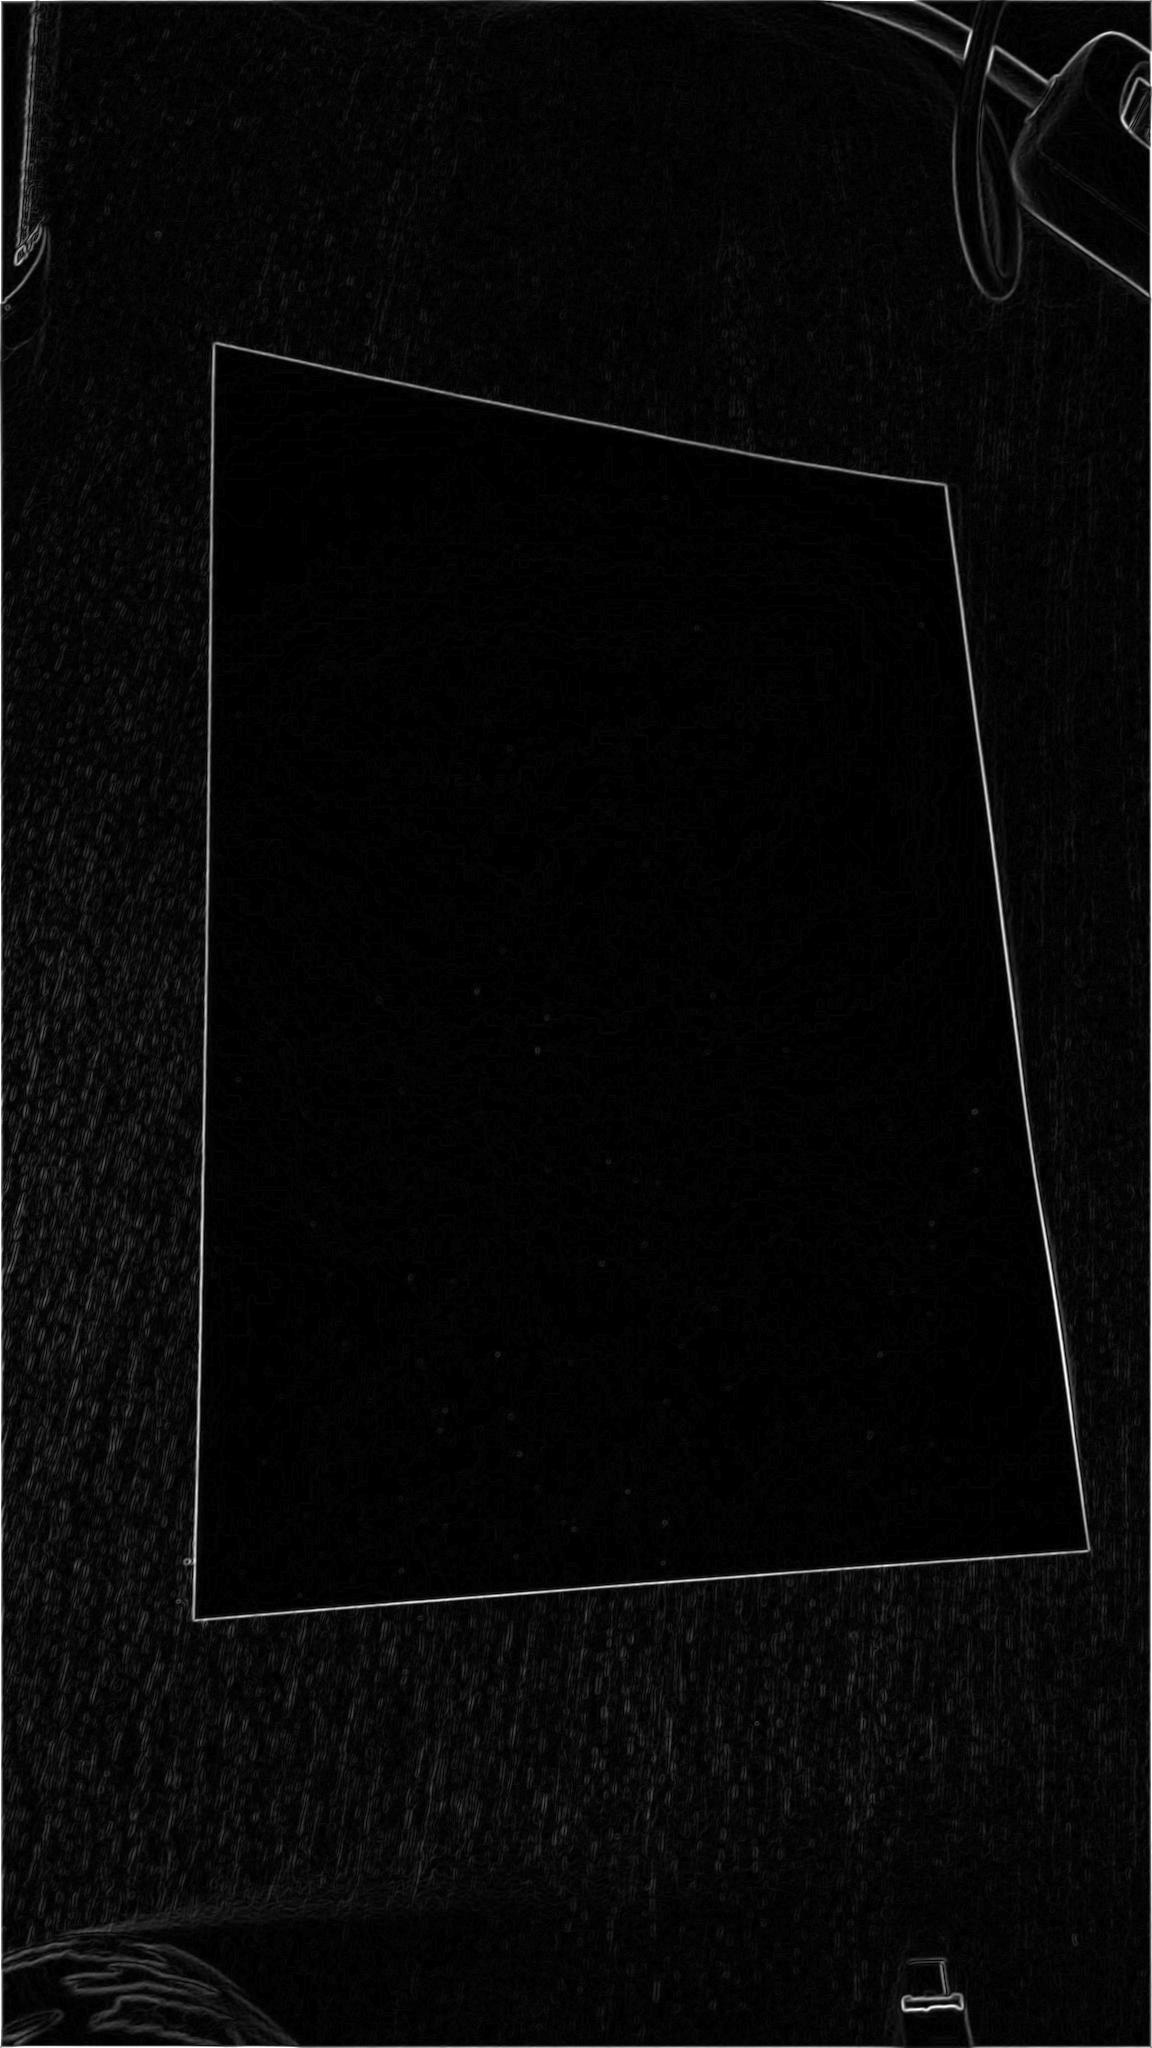
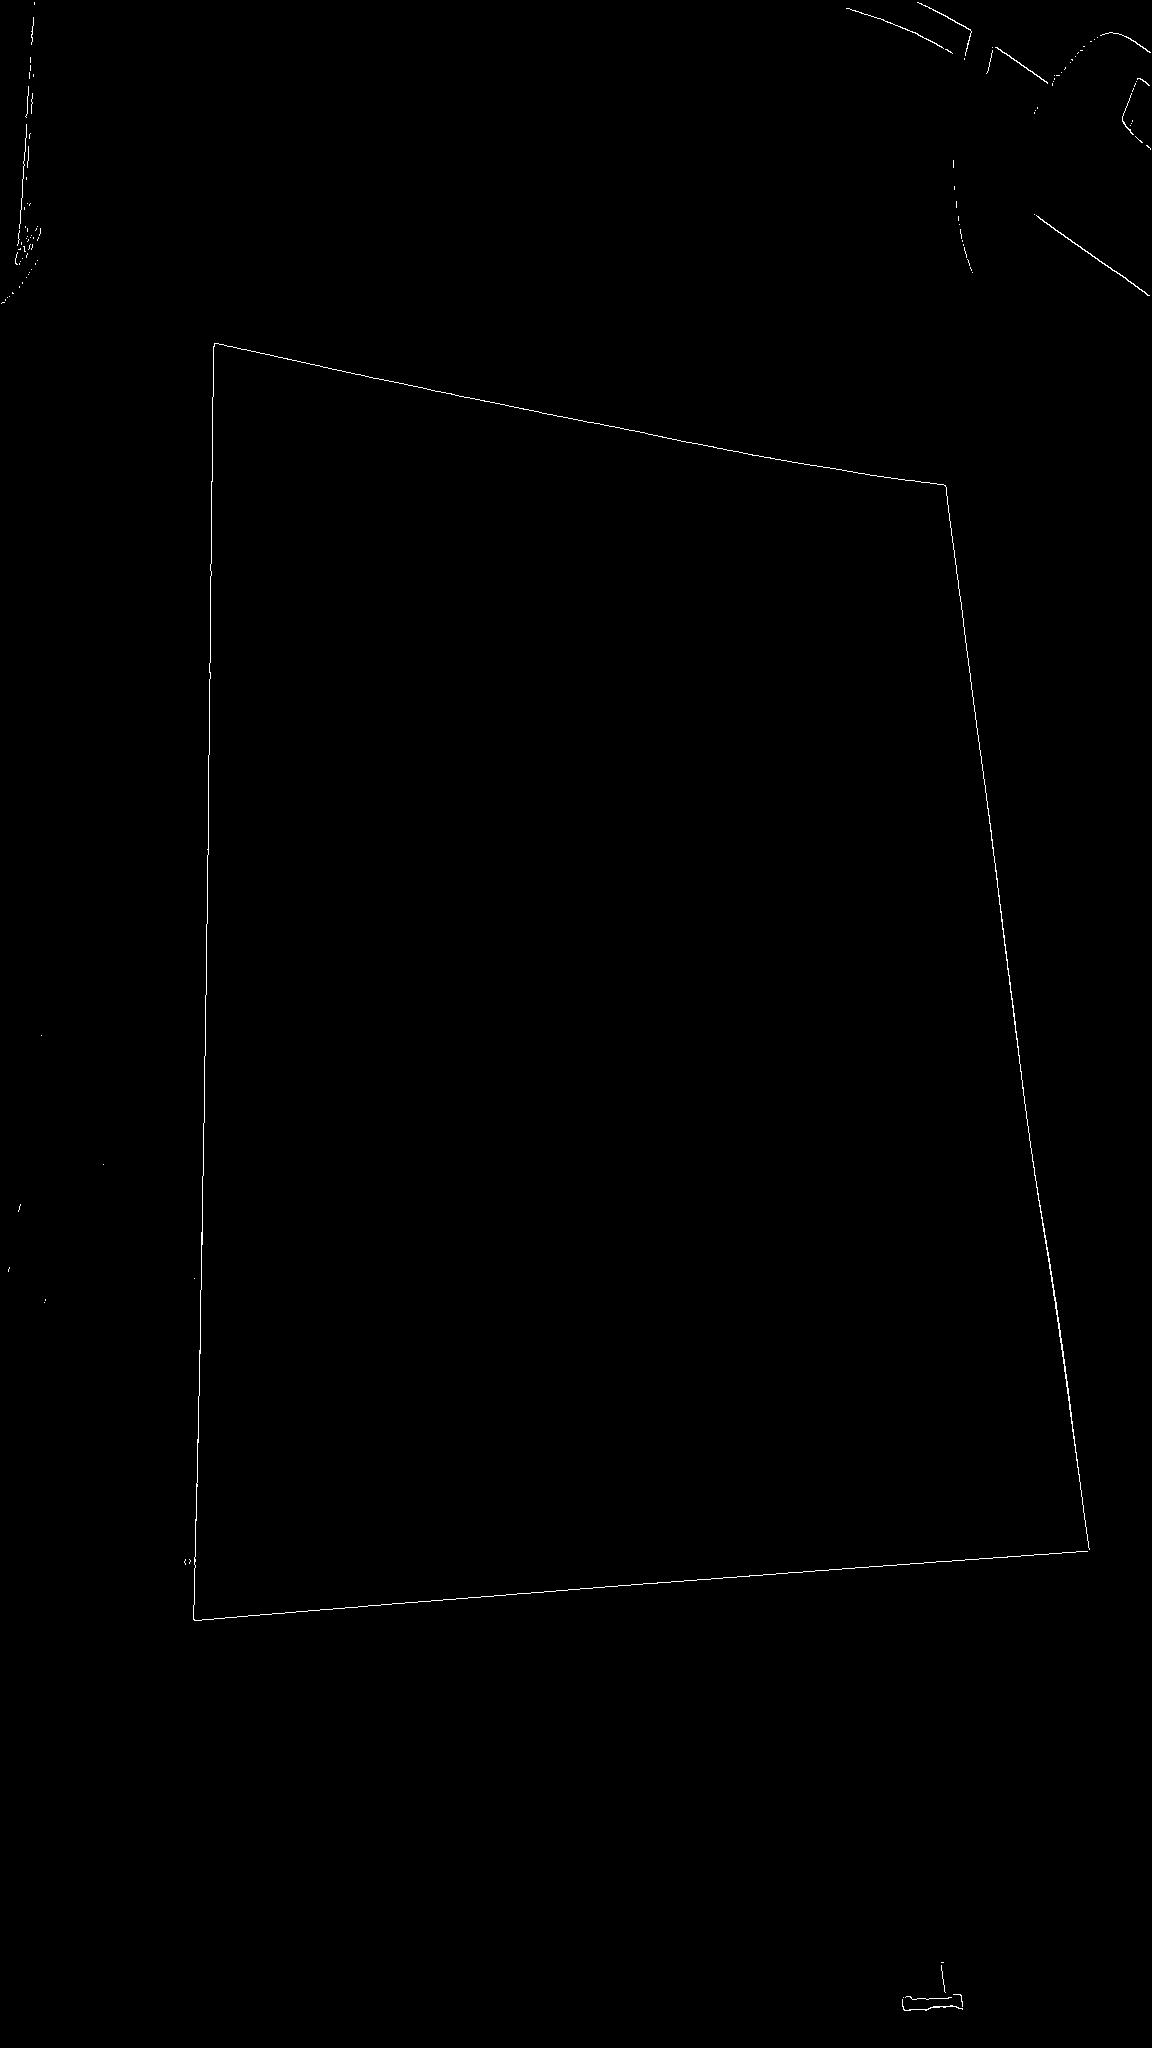
2023041904 Non-max suppression, Double threshhold, Hysteresis

diff --git a/src/main/java/pl/ipt/Painter/Painter.java b/src/main/java/pl/ipt/Painter/Painter.java
@@ -9,6 +9,34 @@ public class Painter {
     private Integer width;
     private Integer height;
 
+    private Double[][] sobelDirection;
+
+
+    /**
+     * Methods
+     **/
+
+
+    private BufferedImage getExtendedImage(Integer ext){
+        BufferedImage e = new BufferedImage(width+ext, height+ext, BufferedImage.TYPE_INT_RGB);
+        e.getGraphics().drawImage(image,ext/2, ext/2,null);
+        return e;
+    }
+
+    private Integer getMaxRGB(){
+        Integer max = 0;
+        for (int i=0; i<height;i++){
+            for (int j=0;j<width;j++){
+                int red = new Color(image.getRGB(j,i)).getRed();
+                if(red > max){
+                    max = red;
+                }
+                if (max >=255)return 255;
+            }
+        }
+        return max;
+    }
+
     public void toGrayScale() {
         for (int i = 0; i < height; i++) {
             for (int j = 0; j < width; j++) {
@@ -23,21 +51,18 @@ public class Painter {
                 image.setRGB(j, i, grey);
             }
         }
+
     }
 
     public void applyGaussian() {
-        applyGaussian(5, 1.3);
+        applyGaussian(5, 1.0);
     }
 
     public void applyGaussian(Integer kernelSize, Double sd) {
-        BufferedImage extended = new BufferedImage(width + kernelSize - 1, height + kernelSize - 1, BufferedImage.TYPE_INT_RGB);
+        BufferedImage extended = getExtendedImage(kernelSize-1);
+        BufferedImage imageCopy = extended;
 
         Integer k = kernelSize >> 1;
-
-        Graphics graphics = extended.getGraphics();
-        graphics.drawImage(image, k, k, null);
-
-        BufferedImage copy = extended;
 
         Double[][] kernel = gaussianKernel(kernelSize, sd);
 
@@ -48,7 +73,7 @@ public class Painter {
                 for (int h = 0; h < kernelSize; h++) {
                     for (int g = 0; g < kernelSize; g++) {
 
-                        Color c = new Color(copy.getRGB(j - k + g, i - k + h));
+                        Color c = new Color(imageCopy.getRGB(j - k + g, i - k + h));
                         grey += kernel[h][g] * c.getRed();
 
 
@@ -90,26 +115,22 @@ public class Painter {
         Double[][] dir = new Double[width][height];
 
         for (int i = 0; i < height; i++) {
-            for (int j=0; j < width; j++){
-                G[j][i] = Math.sqrt((Gx[j][i]*Gx[j][i]+Gy[j][i]*Gy[j][i]));
+            for (int j = 0; j < width; j++) {
+                G[j][i] = Math.sqrt((Gx[j][i] * Gx[j][i] + Gy[j][i] * Gy[j][i]));
                 Integer grey = Math.min(255, G[j][i].intValue());
-                image.setRGB(j,i,new Color(grey,grey,grey).getRGB());
-                dir[j][i] = Math.atan2(Math.abs(Gy[j][i]),Math.abs(Gx[j][i]));
+                image.setRGB(j, i, new Color(grey, grey, grey).getRGB());
+                dir[j][i] = Math.atan2(Math.abs(Gy[j][i]), Math.abs(Gx[j][i]));
             }
         }
-
-
+        setSobelDirection(dir);
     }
 
     private Double[][] directionalSobel(Integer[][] k) {
-        BufferedImage extended = new BufferedImage(width + 2, height + 2, BufferedImage.TYPE_INT_RGB);
-        Graphics graphics = extended.getGraphics();
-
-        graphics.drawImage(image, 1, 1, null);
+        BufferedImage extended = getExtendedImage(2);
 
         Double[][] gradient = new Double[width][height];
 
-        BufferedImage copy = extended;
+        BufferedImage imageCopy = extended;
 
         for (int i = 1; i < height + 1; i++) {
             for (int j = 1; j < width + 1; j++) {
@@ -118,7 +139,7 @@ public class Painter {
 
                 for (int h = 0; h < 3; h++) {
                     for (int g = 0; g < 3; g++) {
-                        Color c = new Color(copy.getRGB(j - 1 + g, i - 1 + h));
+                        Color c = new Color(imageCopy.getRGB(j - 1 + g, i - 1 + h));
                         grey += (k[g][h] * c.getRed());
                     }
                 }
@@ -128,6 +149,104 @@ public class Painter {
         return gradient;
     }
 
+
+    public void applyNonMaxSuppression() {
+        BufferedImage imageCopy = image;
+        BufferedImage result = new BufferedImage(width, height, BufferedImage.TYPE_INT_RGB);
+
+        for (int i = 0; i < height; i++) {
+            for (int j = 0; j < width; j++) {
+                Integer q = new Color(255, 255, 255).getRGB();
+                Integer r = new Color(255, 255, 255).getRGB();
+
+                Double angle = sobelDirection[j][i];
+
+                try {
+                    if ((0 <= angle && angle < 0.125 * Math.PI) || (0.875 * Math.PI <= angle && angle <= Math.PI)) {
+                        q = imageCopy.getRGB(j, i + 1);
+                        r = imageCopy.getRGB(j, i - 1);
+                    } else if (0.125 * Math.PI <= angle && angle < 0.375 * Math.PI) {
+                        q = imageCopy.getRGB(j + 1, i - 1);
+                        r = imageCopy.getRGB(j - 1, i + 1);
+                    } else if (0.375 * Math.PI <= angle && angle < 0.625 * Math.PI) {
+                        q = imageCopy.getRGB(j + 1, i);
+                        r = imageCopy.getRGB(j - 1, i);
+                    } else if (0.625 * Math.PI <= angle && angle < 0.875 * Math.PI) {
+                        q = imageCopy.getRGB(j - 1, i - 1);
+                        r = imageCopy.getRGB(j + 1, i + 1);
+                    }
+                } catch (Exception e) {
+                    q = 255;
+                    r = 255;
+                }
+
+
+                if (imageCopy.getRGB(j, i) >= q && imageCopy.getRGB(j, i) >= r) {
+                    result.setRGB(j, i, imageCopy.getRGB(j, i));
+                } else {
+                    result.setRGB(j, i, 0);
+                }
+            }
+        }
+        setImage(result);
+    }
+
+    public void applyDoubleThreshold(){
+        applyDoubleThreshold(0.9, 0.55);
+    }
+
+    public void applyDoubleThreshold(double lowThresholdRatio, double highThresholdRatio) {
+        Integer maxRGB = getMaxRGB();
+
+        Integer highThreshold = (int)(maxRGB * highThresholdRatio);
+        Integer lowThreshold = (int)(highThreshold * lowThresholdRatio);
+
+        Integer high = new Color(highThreshold,highThreshold,highThreshold).getRGB();
+        Integer low = new Color(lowThreshold,lowThreshold,lowThreshold).getRGB();
+
+        for (int i = 0; i < height; i++) {
+            for (int j = 0; j < width; j++) {
+                Integer grey = image.getRGB(j,i);
+                if (grey>=high){
+                    image.setRGB(j,i,high);
+                } else if (grey< low) {
+                    image.setRGB(j,i,0);
+                }else{
+                    image.setRGB(j,i,low);
+                }
+            }
+        }
+        applyHysteresis(low,high);
+    }
+
+    public void applyHysteresis(Integer weak, Integer strong){
+        BufferedImage extended = getExtendedImage(2);
+
+        for (int i = 1; i < height+1; i++) {
+            for (int j = 1; j < width+1; j++) {
+                if (extended.getRGB(j,i) >= weak ){
+                    if (extended.getRGB(j-1,i-1) <= strong ||
+                            extended.getRGB(j,i-1) <= strong ||
+                            extended.getRGB(j+1,i-1) <= strong ||
+                            extended.getRGB(j-1,i) <= strong ||
+                            extended.getRGB(j+1,i) <= strong ||
+                            extended.getRGB(j-1,i+1) <= strong ||
+                            extended.getRGB(j,i+1) <= strong ||
+                            extended.getRGB(j+1,i+1) <= strong
+                    ){
+                        extended.setRGB(j,i,new Color(255,255,255).getRGB());
+                    }else
+                        extended.setRGB(j,i,0);
+                }
+            }
+        }
+        setImage(extended.getSubimage(1,1,width,height));
+    }
+
+
+    /**
+     * Constructors
+     **/
 
     public Painter() {
     }
@@ -142,7 +261,15 @@ public class Painter {
         return image;
     }
 
+    /**
+     * Getters and Setters
+     **/
+
     public void setImage(BufferedImage image) {
         this.image = image;
+    }
+
+    public void setSobelDirection(Double[][] sobelDirection) {
+        this.sobelDirection = sobelDirection;
     }
 }

diff --git a/src/main/java/pl/ipt/iptApp.java b/src/main/java/pl/ipt/iptApp.java
@@ -24,8 +24,8 @@ public class iptApp {
             painter.toGrayScale();
             painter.applyGaussian();
             painter.applySobel();
-
-
+            painter.applyNonMaxSuppression();
+            painter.applyDoubleThreshold();
 
             ImageIO.write(painter.getImage(),"jpg",fileOutputStream);
 
